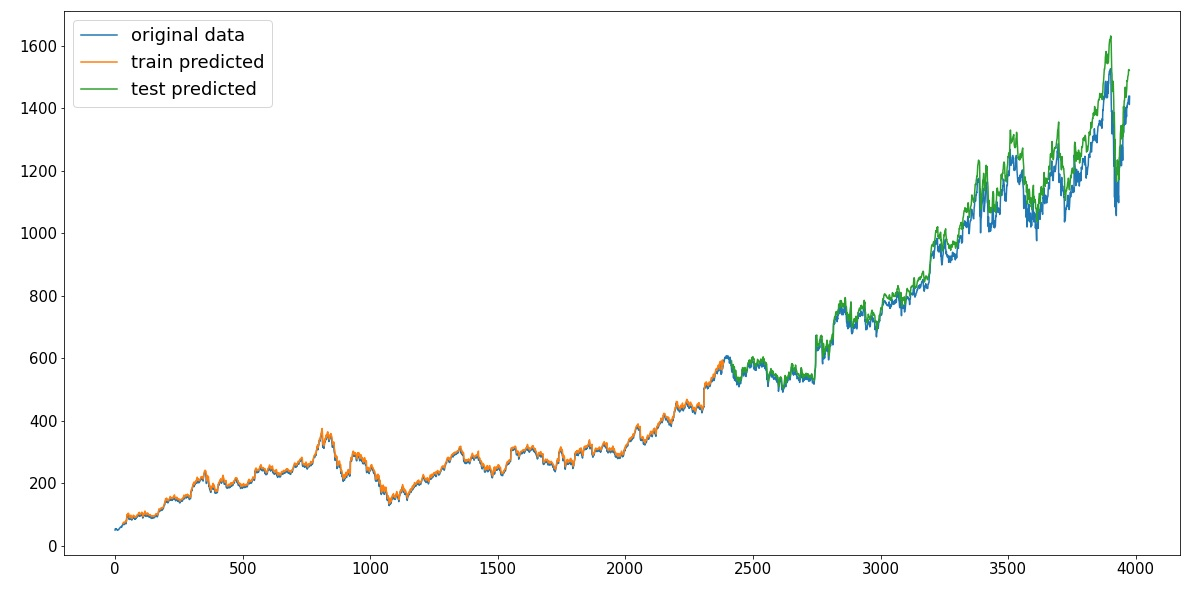
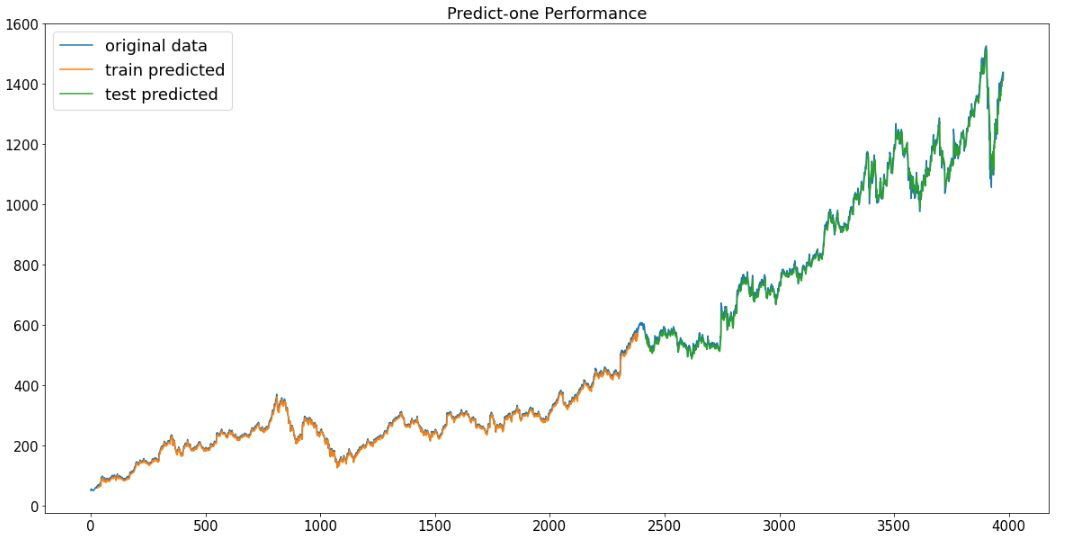
'n'

diff --git a/README.md b/README.md
@@ -4,7 +4,7 @@ NTUT-EE Deep Learning 2020 project-2
 
 # Project Introduction
 從[Alphabet Inc. (GOOG)](https://finance.yahoo.com/quote/GOOG/history?p=GOOG)下載2004.08.09至2020.06.05期間股市資料，僅利用調整後的收盤價(adj. close)的欄位當作資料．我們想要預測未來五天的該股票的收盤價格．
-比較有使用pre-trained LSTM以及沒有使用兩種的差別．
+比較有使用pre-trained LSTM以及沒有使用兩種的差別．資料集共3977筆資料，訓練集佔6成，測試集佔4成．
 
 # LSTM Introduction
 ![lstm0](https://github.com/Shuntw6096/Stock-Trend-Prediction/blob/new1/img/lstm0.JPG)  
@@ -15,14 +15,30 @@ input gate會縮放input進memory cell，同樣output gate也會縮放memory cel
 
 # Pre-trained LSTM
 ## Predict-one Model
+這個模型這個利用前30天的價格預測未來一天的價格．該模型表現為所有模型中表現最好．對LSTM的recurrent kernel使用L1和L2正則化就能有效抑制overfitting．
+
+
 | Model | Performance |
 |:---------:|:---------:|
 |![predict-one](https://github.com/Shuntw6096/Stock-Trend-Prediction/blob/new1/img/predict-one.jpg)|![predict-one performance](https://github.com/Shuntw6096/Stock-Trend-Prediction/blob/new1/img/predict-one_p.jpg)|
 
 | Train Score(RMSE) | Test Score(RMSE) |
 |:---------:|:---------:|
-| 8.11 | 49.38 |
-這個模型這個利用前30天的價格預測未來一天的價格．
+| 7.26 | 19.11 |
+
+## LSTM Autoencoder
+首先只有一個LSTM cell輸入是一個sequence，Encoder在輸入為sequence的結尾輸出一個lantent code(many2one)．Decoder重複使用lantent code當作輸入，每次輸入都對應一個輸出，直到輸出的sequence長度等於輸入，Loss Function為MSE．
+非常容易overfitting，對LSTM的recurrent kernel使用L1和L2正則化和dropout以及發現對輸出使用L1和L2正則化對Test Score表現較好，該模型表現為所有模型中表現最差．
+
+| Model | Performance |
+|:---------:|:---------:|
+|![lstm-ae](https://media.springernature.com/full/springer-static/image/art%3A10.1038%2Fs41598-019-55320-6/MediaObjects/41598_2019_55320_Fig3_HTML.png?as=webp)|![predict-one performance](https://github.com/Shuntw6096/Stock-Trend-Prediction/blob/new1/img/lstm-ae_p.jpg)|
+
+| Train Score(RMSE) | Test Score(RMSE) |
+|:---------:|:---------:|
+| 2.85 | 154.09 |
+
+
 
 
 
